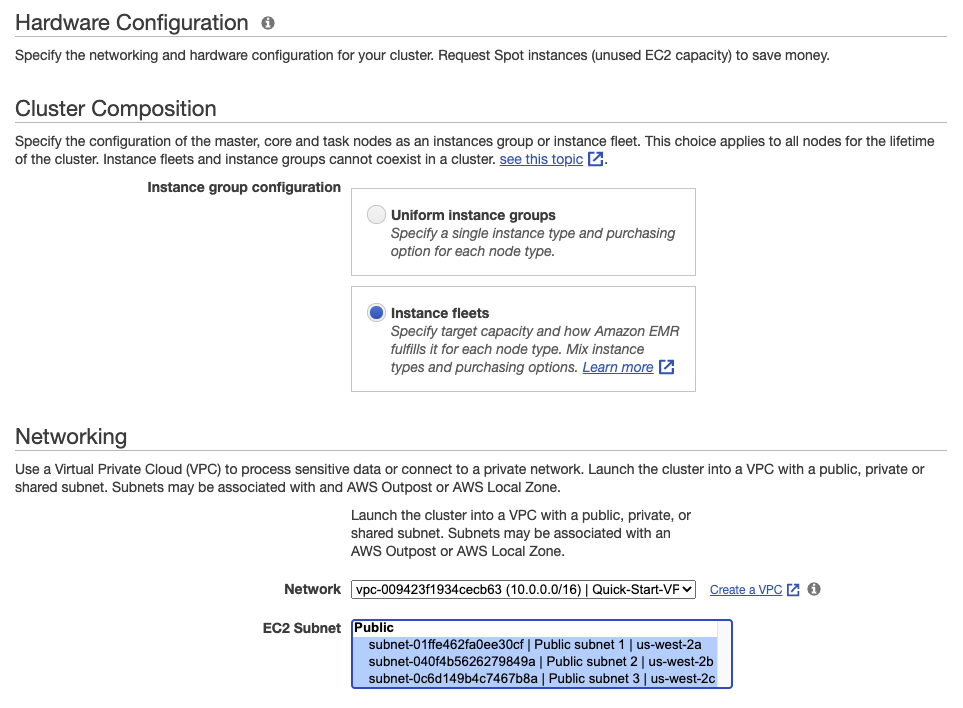
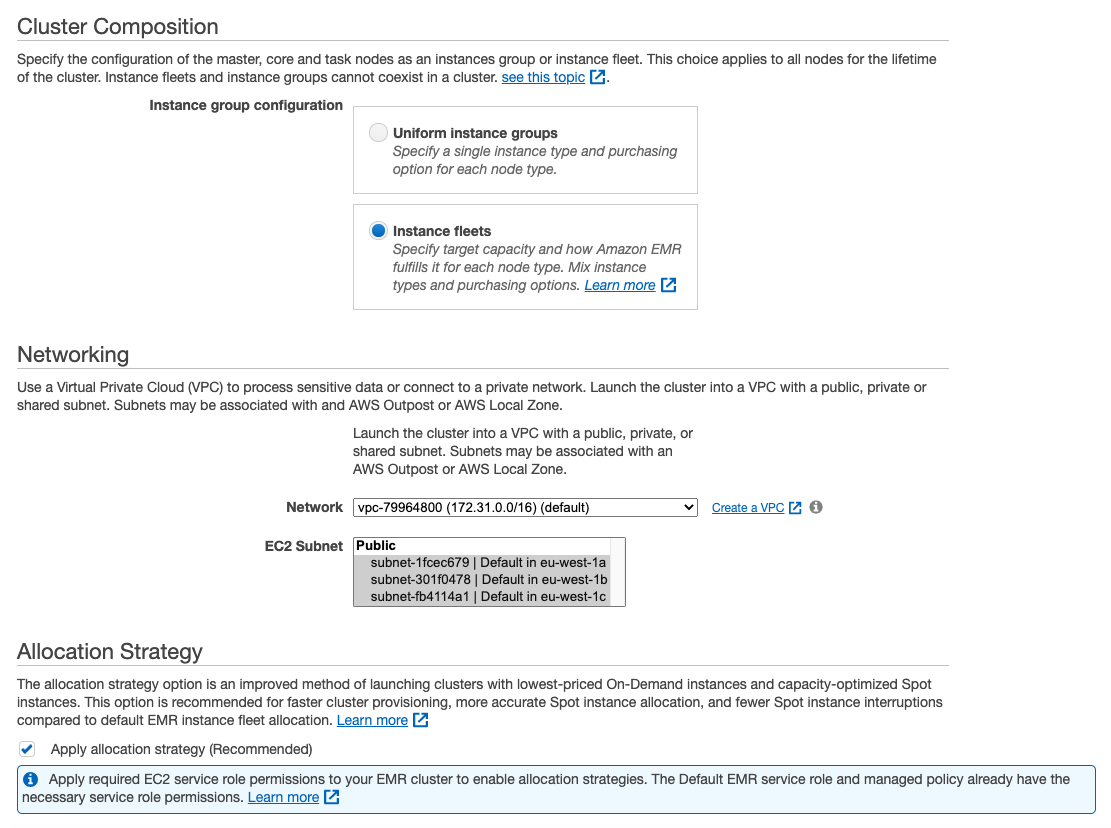
EMR workshop fixes

Changed region(s): [[0.0, 0.404, 0.9657, 0.9944], [0.0, 0.0, 0.9657, 0.3729], [0.5919, 0.5904, 0.7477, 0.6215]]

diff --git a/content/running_spark_apps_with_emr_on_spot_instances/fleet_config_options.md b/content/running_spark_apps_with_emr_on_spot_instances/fleet_config_options.md
@@ -8,14 +8,14 @@ While our cluster is starting (7-8 minutes) and the step is running (4-10 minute
 ![fleetconfigs](/images/running-emr-spark-apps-on-spot/emrinstancefleets-core1.png)
 
 #### Maximum Spot price 
-Since Amazon EC2 Spot Instances [changed the pricing model and bidding is no longer required] (https://aws.amazon.com/blogs/compute/new-amazon-ec2-spot-pricing/), we have an optional "Max-price" field for our Spot requests, which would limit how much we're willing to pay for the instance. It is recommended to leave this value at 100% of the On-Demand price, in order to avoid limiting our instance diversification. We are going to pay the Spot market price regardless of the Maximum price that we can specify, and setting a higher max price does not increase the chance of getting Spot capacity nor does it decrease the chance of getting your Spot Instances interrupted when EC2 needs the capacity back. You can see the current Spot price in the AWS Management Console under EC2 -> Spot Requests -> **Pricing History**.
+Since Nov 2017, Amazon EC2 Spot Instances [changed the pricing model and bidding was eliminated] (https://aws.amazon.com/blogs/compute/new-amazon-ec2-spot-pricing/). We have an optional "Max-price" field for our Spot requests, which would limit how much we're willing to pay for the instance. It is recommended to leave this value at 100% of the On-Demand price, in order to avoid limiting our instance diversification. We are going to pay the Spot market price regardless of the Maximum price that we can specify, and setting a higher max price does not increase the chance of getting Spot capacity nor does it decrease the chance of getting your Spot Instances interrupted when EC2 needs the capacity back. You can see the current Spot price in the AWS Management Console under EC2 -> Spot Requests -> **Pricing History**.
 
 #### Each instance counts as X units
 This configuration allows us to give each instance type in our diversified fleet a weight that will count towards our Total units. By default, this weight is configured as the number of YARN VCores that the instance type has by default (this would typically equate to the number of EC2 vCPUs) - this way it's easy to set the Total units to the number of vCPUs we want our cluster to run with, and EMR will select the best instances while taking into account the required number of instances to run. For example, if r4.xlarge is the instance type that EMR found to be the least likely to be interrupted, its weight is 4 and our total units (only Spot) is 32, then 8 * r4.xlarge instances will be launched by EMR in the fleet.
 If my Spark application is memory driven, I can set the total units to the total amount of memory I want my cluster to run with, and change the "Each instance counts as" field to the total memory of the instance, leaving aside some memory for the operating system and other processes. For example, for the r4.xlarge I can set its weight to 25. If I then set up the Total units to 500 then EMR will bring up 20 * r4.xlarge instances in the fleet. Since our executor size is 18 GB, one executor will run on this instance type.
 
 #### Defined duration
-This option will allow you run your EMR Instance Fleet on Spot Blocks, which are uninterrupted Spot Instances, available for 1-6 hours, at a lower discount compared to Spot Instances.
+This option will allow you run your EMR Instance Fleet on [Spot Blocks](https://docs.aws.amazon.com/AWSEC2/latest/UserGuide/spot-requests.html#fixed-duration-spot-instances), which are uninterrupted Spot Instances, available for 1-6 hours, at a lower discount compared to Spot Instances.
 
 #### Provisioning timeout
 You can determine that after a set amount of minutes, if EMR is unable to provision your selected Spot Instances due to lack of capacity, it will either start On-Demand instances instead, or terminate the cluster. This can be determined according to the business definition of the cluster or Spark application - if it is SLA bound and should complete even at On-Demand price, then the "Switch to On-Demand" option might be suitable. However, make sure you diversify the instance types in the fleet when looking to use Spot Instances, before you look into failing over to On-Demand.

diff --git a/content/running_spark_apps_with_emr_on_spot_instances/launching_emr_cluster-2.md b/content/running_spark_apps_with_emr_on_spot_instances/launching_emr_cluster-2.md
@@ -3,7 +3,7 @@ title: "Launch a cluster - Step 2"
 weight: 70
 ---
 
-Under "**Instance group configuration**", select Instance Fleets. Under Network, select the VPC that you deployed using the CloudFormation template earlier in the workshop (or the default VPC if you're running the workshop in an AWS event), and select all subnets in the VPC. When you select multiple subnets, the EMR cluster will still be started in a single Availability Zone, but EMR Instance Fleets will make the best instance type selection based on available capacity and price across the multiple availability zones that you specified.
+Under "**Instance group configuration**", select Instance Fleets. Under Network, select the VPC that you deployed using the CloudFormation template earlier in the workshop (or the default VPC if you're running the workshop in an AWS event), and select all subnets in the VPC. When you select multiple subnets, the EMR cluster will still be started in a single Availability Zone, but EMR Instance Fleets will make the best instance type selection based on available capacity and price across the multiple availability zones that you specified. Aslo, click on the checkbox "Apply allocation strategy" to leverage lowest-price allocation for On-Demand Instances and Capacity-Optimized allocation for Spot Instances; this will also allow you to configure up to 15 instance types on the Task Instance fleet.
 ![FleetSelection1](/images/running-emr-spark-apps-on-spot/emrinstancefleetsnetwork.png)
 
 

diff --git a/content/running_spark_apps_with_emr_on_spot_instances/cloud9-awscli.md b/content/running_spark_apps_with_emr_on_spot_instances/cloud9-awscli.md
@@ -9,12 +9,12 @@ comment: default install now includes aws-cli/1.15.83
 For this workshop, please ignore warnings about the version of pip being used.
 {{% /notice %}}
 
-1. Run the following command to view the current version of aws-cli:
-```
-aws --version
+1. Uninstall the AWS CLI 1.x by running:
+```bash
+sudo pip uninstall -y awscli
 ```
 
-1. Update to the latest version:
+1. Install the AWS CLI 2.x by running the following command:
 ```
 curl "https://awscli.amazonaws.com/awscli-exe-linux-x86_64.zip" -o "awscliv2.zip"
 unzip awscliv2.zip
